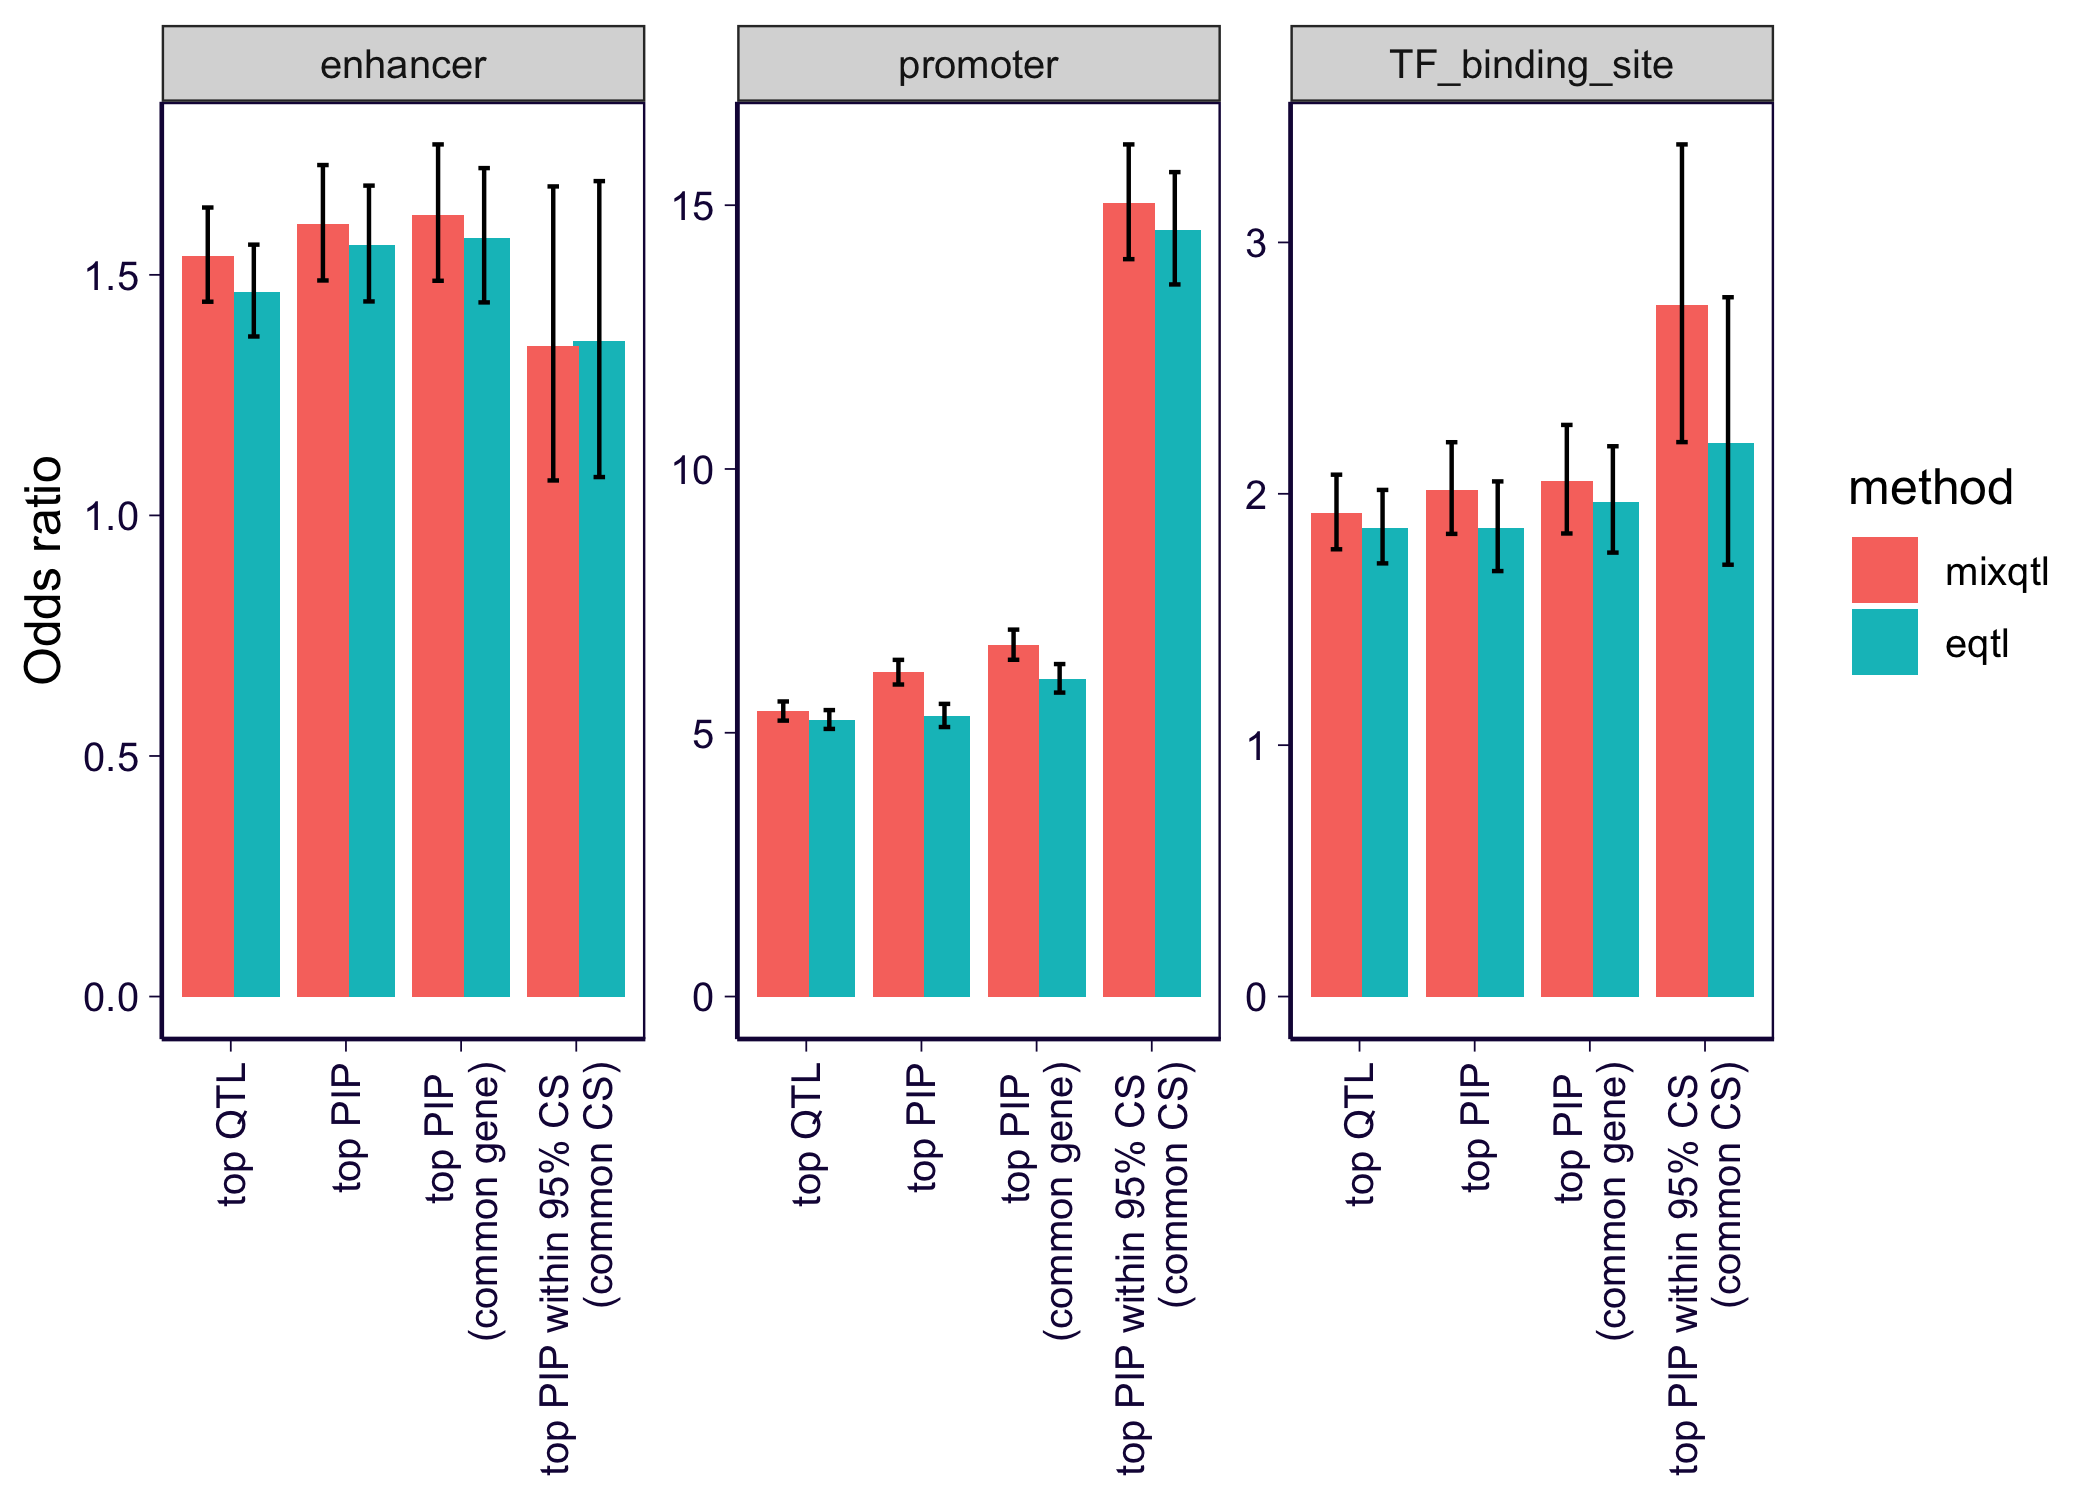
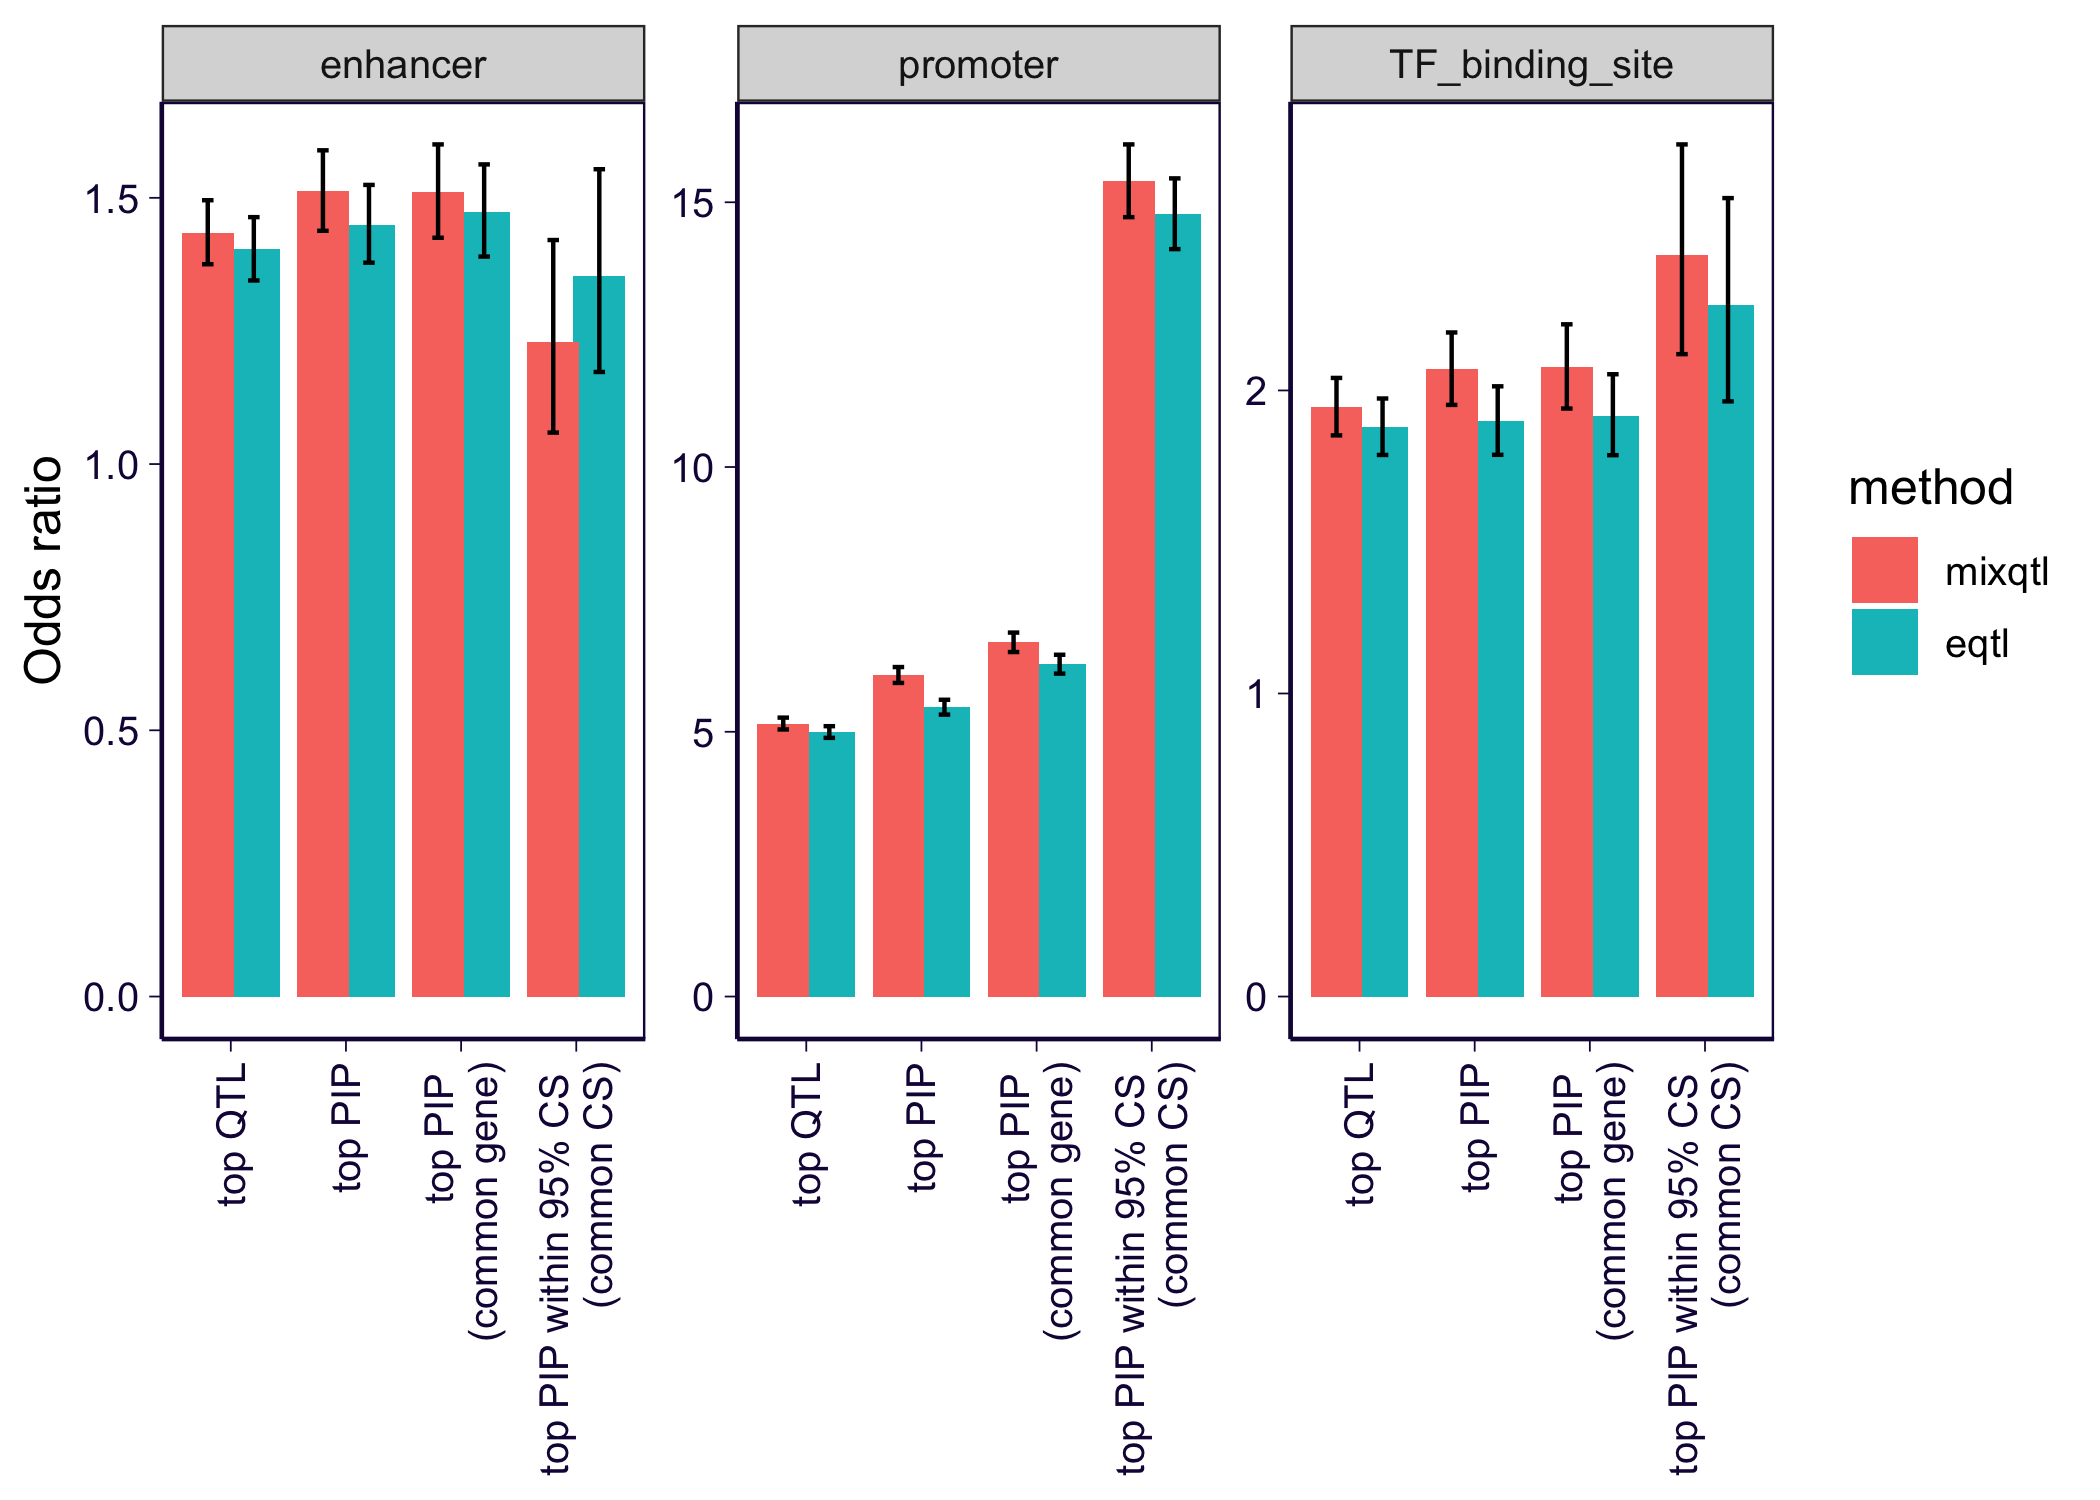
changed definition of cs

diff --git a/postprocessing/functional_enrichment/functional_enrichment.py b/postprocessing/functional_enrichment/functional_enrichment.py
@@ -114,7 +114,7 @@ if __name__ == '__main__':
         for i in range(1, 23):
             print(f'Working on chr{i}')
             tmp = pd.read_parquet(args.mixfine_cs.format(chr_num=i, tissue=tissue))
-            tmp = tmp[ tmp.variable_prob > 0.01 ].reset_index(drop=True)
+            tmp = tmp[ tmp.variable_prob > 0 ].reset_index(drop=True)
             top_cs_mix.append(tmp[['phenotype_id', 'variant_id', 'cs', 'variable_prob']])
         top_cs_mix = pd.concat(top_cs_mix, axis=0)
         top_cs_mix.to_parquet(cache_top_cs_mixqtl)
@@ -127,7 +127,7 @@ if __name__ == '__main__':
         for i in range(1, 23):
             print(f'Working on chr{i}')
             tmp = pd.read_parquet(args.nefine_cs.format(chr_num=i, tissue=tissue))
-            tmp = tmp[ tmp.variable_prob > 0.01 ].reset_index(drop=True)
+            tmp = tmp[ tmp.variable_prob > 0 ].reset_index(drop=True)
             top_cs_qtl.append(tmp[['phenotype_id', 'variant_id', 'cs', 'variable_prob']])
         top_cs_qtl = pd.concat(top_cs_qtl, axis=0)
         top_cs_qtl.to_parquet(cache_top_cs_eqtl)

diff --git a/postprocessing/functional_enrichment/functional_enrichment_encode.py b/postprocessing/functional_enrichment/functional_enrichment_encode.py
@@ -107,7 +107,7 @@ if __name__ == '__main__':
         for i in range(1, 23):
             print(f'Working on chr{i}')
             tmp = pd.read_parquet(args.mixfine_cs.format(chr_num=i, tissue=tissue))
-            tmp = tmp[ tmp.variable_prob > 0.01 ].reset_index(drop=True)
+            tmp = tmp[ tmp.variable_prob > 0 ].reset_index(drop=True)
             top_cs_mix.append(tmp[['phenotype_id', 'variant_id', 'cs', 'variable_prob']])
         top_cs_mix = pd.concat(top_cs_mix, axis=0)
         top_cs_mix.to_parquet(cache_top_cs_mixqtl)
@@ -120,7 +120,7 @@ if __name__ == '__main__':
         for i in range(1, 23):
             print(f'Working on chr{i}')
             tmp = pd.read_parquet(args.nefine_cs.format(chr_num=i, tissue=tissue))
-            tmp = tmp[ tmp.variable_prob > 0.01 ].reset_index(drop=True)
+            tmp = tmp[ tmp.variable_prob > 0 ].reset_index(drop=True)
             top_cs_qtl.append(tmp[['phenotype_id', 'variant_id', 'cs', 'variable_prob']])
         top_cs_qtl = pd.concat(top_cs_qtl, axis=0)
         top_cs_qtl.to_parquet(cache_top_cs_eqtl)

diff --git a/postprocessing/functional_enrichment/functional_enrichment_gwas_catalog.py b/postprocessing/functional_enrichment/functional_enrichment_gwas_catalog.py
@@ -88,7 +88,7 @@ if __name__ == '__main__':
         for i in range(1, 23):
             print(f'Working on chr{i}')
             tmp = pd.read_parquet(args.mixfine_cs.format(chr_num=i, tissue=tissue))
-            tmp = tmp[ tmp.variable_prob > 0.01 ].reset_index(drop=True)
+            tmp = tmp[ tmp.variable_prob > 0 ].reset_index(drop=True)
             top_cs_mix.append(tmp[['phenotype_id', 'variant_id', 'cs', 'variable_prob']])
         top_cs_mix = pd.concat(top_cs_mix, axis=0)
         top_cs_mix.to_parquet(cache_top_cs_mixqtl)
@@ -101,7 +101,7 @@ if __name__ == '__main__':
         for i in range(1, 23):
             print(f'Working on chr{i}')
             tmp = pd.read_parquet(args.nefine_cs.format(chr_num=i, tissue=tissue))
-            tmp = tmp[ tmp.variable_prob > 0.01 ].reset_index(drop=True)
+            tmp = tmp[ tmp.variable_prob > 0 ].reset_index(drop=True)
             top_cs_qtl.append(tmp[['phenotype_id', 'variant_id', 'cs', 'variable_prob']])
         top_cs_qtl = pd.concat(top_cs_qtl, axis=0)
         top_cs_qtl.to_parquet(cache_top_cs_eqtl)
